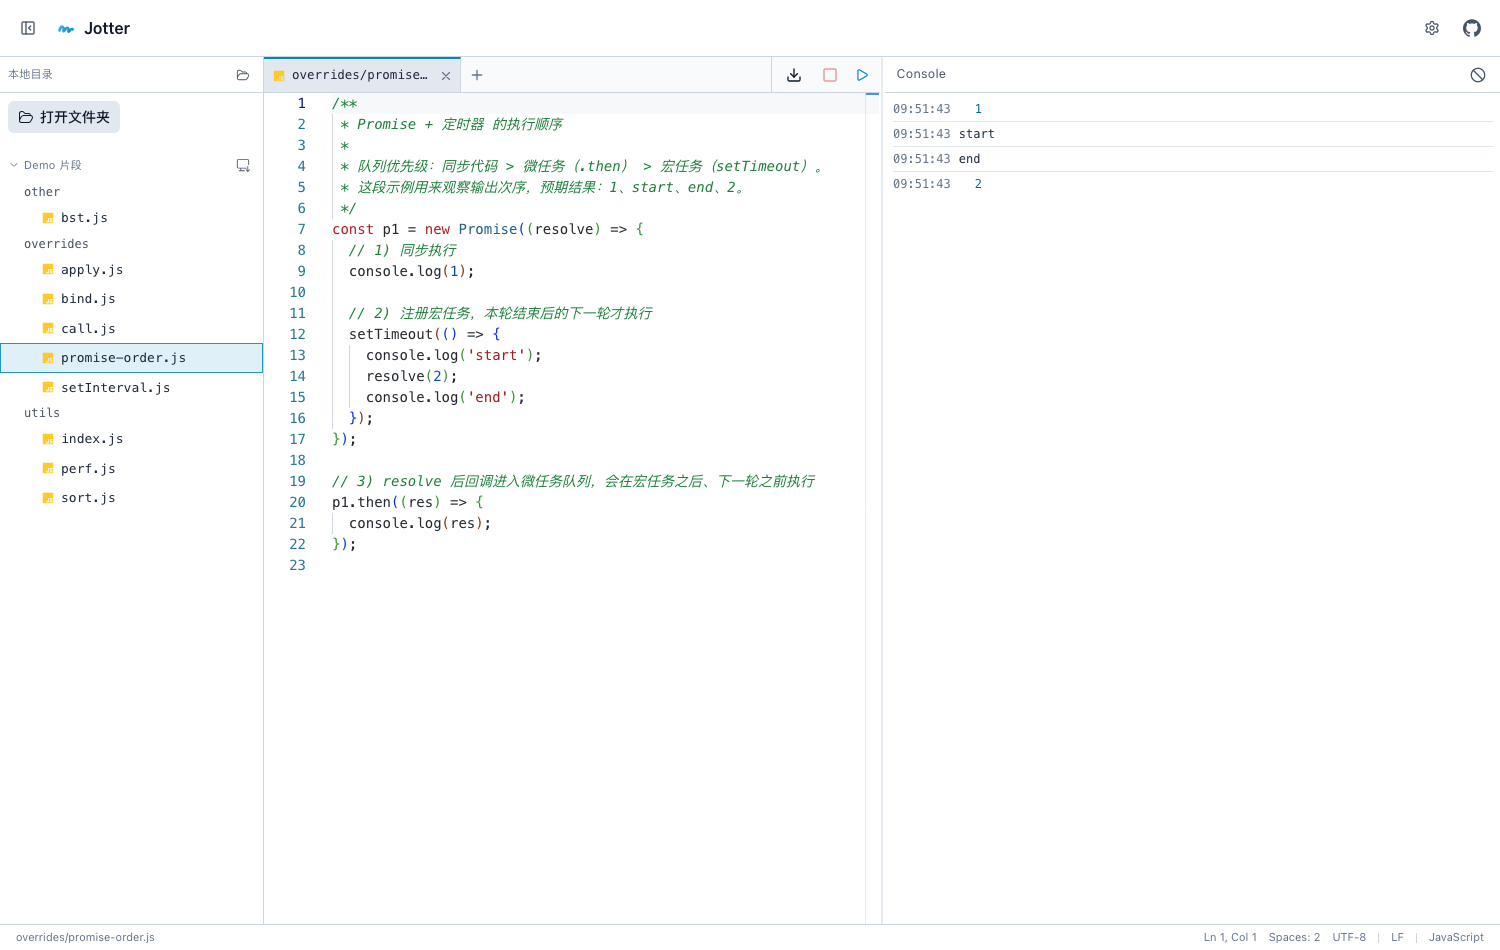
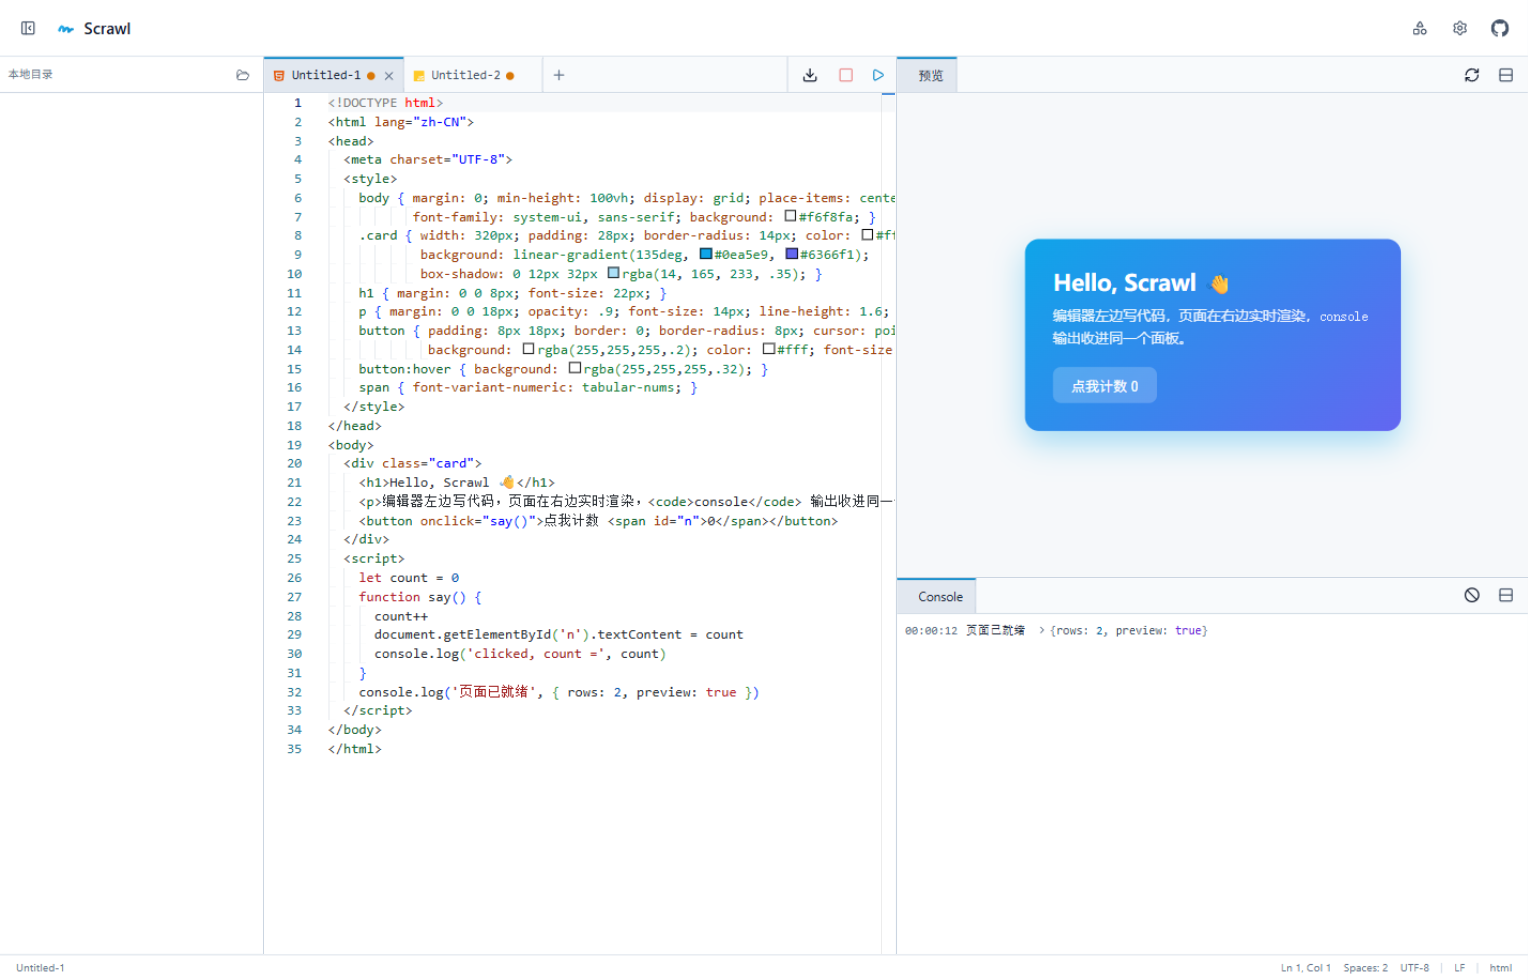
docs: refresh screenshot and positioning for the preview era
The preview shot still showed the Jotter branding. New light-mode
capture: HTML source beside the rendered page and the console fed by
the page itself. Intro copy now says scratchpad for web code, the
feature table gains HTML/Markdown preview rows, and the stale 'not an
HTML preview tool' disclaimer becomes an accurate note about relative
resources not being resolved yet.

diff --git a/index.html b/index.html
@@ -5,7 +5,7 @@
     <link rel="icon" type="image/svg+xml" href="/favicon.svg" />
     <meta name="viewport" content="width=device-width, initial-scale=1.0" />
     <title>Scrawl</title>
-    <meta name="description" content="Scrawl is a scratchpad for running JavaScript and TypeScript in the browser: write a snippet, hit run, read the console." />
+    <meta name="description" content="Scrawl is a browser scratchpad for web code: run JavaScript or TypeScript snippets and read the console, or preview HTML files beside it." />
     <script>
       /*
         改名迁移：项目原来叫 Jotter，localStorage 里的键都是 jotter:* 开头。

diff --git a/README.md b/README.md
@@ -2,13 +2,15 @@
 
 > English | [中文](./README.zh-CN.md)
 
-**Scrawl** is an online scratchpad for running JavaScript and TypeScript code. Write a snippet, hit run, and see the console output immediately.
+**Scrawl** is an online scratchpad for web code. Write a snippet of JavaScript or TypeScript, hit run, and see the console output immediately — or open an HTML file and watch the page render right beside the console.
 
 ## Features
 
 | Feature | Description |
 | --- | --- |
 | Instant execution | Code runs in a dedicated Web Worker, so the UI stays responsive; top-level `await` works and `while (true)` loops can be stopped with one click. |
+| HTML preview | HTML files render in a sandboxed iframe beside the console; the page's `console` output, warnings, and errors are captured into the same console. |
+| Markdown preview | `.md` files render as styled documents next to the editor, following the app theme; edits refresh the preview automatically. |
 | Monaco editor | The same editor that powers VS Code, with syntax highlighting, autocompletion, and TypeScript type checking; multiple tabs, with font size, editor theme, and file icons adjustable in settings. |
 | Untitled files | Start writing without opening any folder: untitled files are kept in the browser and survive reloads; with a folder open, Ctrl+S names the file and saves it there. |
 | Local file system | Open local folders (several at once) via the browser's File System Access API, browse the directory tree in the sidebar, edit/save/rename/delete files, and use relative `import`s between local files. |
@@ -16,7 +18,7 @@
 | Multilingual UI | 12 interface languages (including right-to-left layout for Arabic), following the system language by default and switchable in settings. |
 | Themes | Dark / light following the system or set by hand, plus 7 accent colors. |
 
-> Note: Scrawl is a code scratchpad — it runs JavaScript / TypeScript and shows console output. It is **not** an HTML / CSS live preview tool.
+> Note: The preview renders the opened HTML file in a sandboxed iframe — it is not a dev server: relative resources (linked stylesheets, scripts, images from other files) are not resolved yet.
 
 ## Tech Stack
 
@@ -52,4 +54,4 @@ pnpm lint    # code linting (--max-warnings 0; any warning fails)
 
 Online playground: [playground.deore.me](https://playground.deore.me/)
 
-![Scrawl UI preview](/src/assets/imgs/preview.png?v=5)
+![Scrawl UI preview](/src/assets/imgs/preview.png?v=6)

diff --git a/README.zh-CN.md b/README.zh-CN.md
@@ -2,13 +2,15 @@
 
 > [English](./README.md) | 中文
 
-**Scrawl** 是一个在线运行 JavaScript / TypeScript 代码的草稿纸。写一段代码，点一下运行，立刻在右侧 Console 看到输出。
+**Scrawl** 是一张写给网页代码的在线草稿纸。写一段 JavaScript 或 TypeScript，点一下运行，立刻在右侧 Console 看到输出；打开 HTML 文件，页面就在 Console 旁边渲染出来。
 
 ## 特性
 
 | 特性 | 说明 |
 | --- | --- |
 | 即时运行 | 代码跑在独立 Web Worker 里，不卡界面；支持顶层 `await`，`while (true)` 也能一键终止。 |
+| HTML 预览 | HTML 文件在沙箱 iframe 里渲染，页面里的 `console` 输出、警告和错误会收进同一个 Console。 |
+| Markdown 预览 | `.md` 文件在编辑器旁边渲染成排版好的文档，外观跟随应用主题；编辑停手即自动刷新。 |
 | Monaco 编辑器 | VS Code 同款编辑器，带语法高亮、自动补全和 TypeScript 类型检查；多标签页，字号、编辑器主题、文件图标都可在设置里调。 |
 | 未命名文件 | 不打开任何文件夹也能直接写：未命名文件存在浏览器本地，刷新不丢；开着文件夹时按 Ctrl+S 起个名字就存进去。 |
 | 本地文件系统 | 通过浏览器文件系统 API 打开本地文件夹（可同时打开多个），在侧边栏里浏览目录树，编辑、保存、重命名、删除文件，本地文件之间支持相对路径 `import`。 |
@@ -16,7 +18,7 @@
 | 多语言 | 界面提供 12 种语言（含阿拉伯语的从右到左布局），默认跟随系统，在设置里切换。 |
 | 主题 | 深色 / 浅色跟随系统或手动指定，另有 7 种配色可选。 |
 
-> 说明：Scrawl 是代码草稿纸，只运行 JavaScript / TypeScript 并展示 Console 输出，**不是** HTML / CSS 实时预览器。
+> 说明：预览是在沙箱 iframe 里渲染你打开的那个 HTML 文件——它不是开发服务器：引用其它文件的相对路径资源（样式表、脚本、图片）目前还不会解析。
 
 ## 技术栈
 
@@ -52,4 +54,4 @@ pnpm lint    # 代码检查（--max-warnings 0，任何告警都会失败）
 
 在线地址：[playground.deore.me](https://playground.deore.me/)
 
-![Scrawl 界面预览](/src/assets/imgs/preview.png?v=5)
+![Scrawl 界面预览](/src/assets/imgs/preview.png?v=6)
